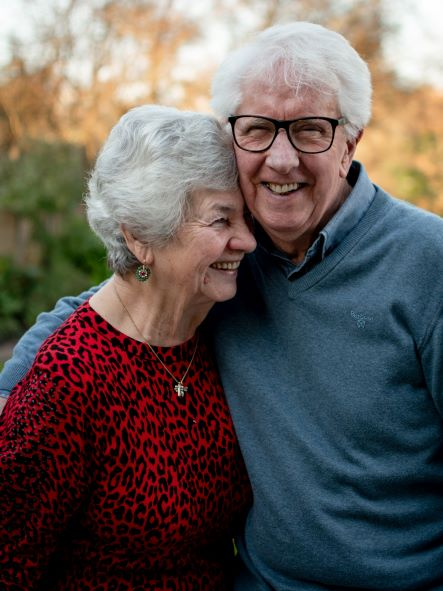
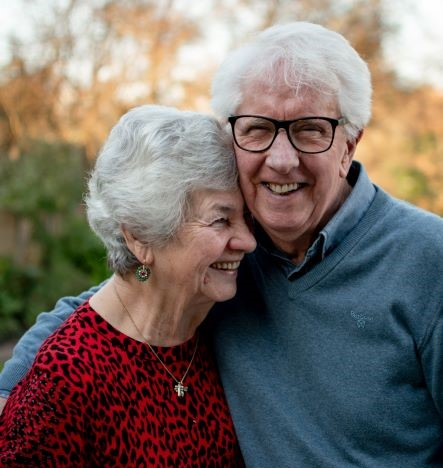
Corrigiendo tamaños imagenes entradas

diff --git a/pages/servicios/neurodesarrollo.js b/pages/servicios/neurodesarrollo.js
@@ -15,7 +15,7 @@ const NeuroDesarrollo = () => {
                 <section className='principal'>
                     <img src="/neurodesarrollo.jpg" alt="niños en la escuela" />
                     <p>La intervención se enfoca en apoyar al niño que presenta limitación en sus habilidades motoras, como capacidad reducida para moverse, dificultad para hacer cambios de postura, marcha, correr, saltar, dependencia en las actividades de la vida diaria, dificultad para participar en actividades escolares, etc. Esta basada en el análisis detallado de las actividades funcionales, las limitaciones, capacidades y necesidades, utilizando el análisis del movimiento típico para identificar los componentes atípicos.</p>
-                    <h2>Beneficios de la intervención de terapia ocupacional desde el enfoque de neurodesarrollo </h2>
+                    <h2 style={{marginTop: '2rem'}}>Beneficios de la intervención de terapia ocupacional desde el enfoque de neurodesarrollo </h2>
                     <p>
                     -Reducir el impacto de las deficiencias, aumentar el nivel de participación y autonomía.<br/><br/>
                     -Enfatizar en actividades funcionales impactando directamente en la higiene, vestido, alimentación, juego y traslado, ya que es importante que el niño lo refuerce diariamente.<br/><br/>

diff --git a/pages/servicios/terapia-en-la-escuela.js b/pages/servicios/terapia-en-la-escuela.js
@@ -12,8 +12,8 @@ const TerapiaEnLaEscuela = () => {
                     <i className='bx bxs-school' ></i>
                     <h1>Terapia Ocupacional en la escuela</h1>
                 </section>
-                <section className='principal'>
-                    <img src="/escuela.jpg" alt="niños en la escuela" />
+                <section className='principal imagenEscuela'>
+                    <img src="/escuela.webp" alt="niños en la escuela" />
                     <p>El rol ocupacional del niño centra sus actividades en la escuela, es por esto que un terapeuta ocupacional en dicho entorno es un profesional que puede apoyar las adaptaciones razonables del currículo que el profesor del aula realiza a través del PIAR, para aquellos niños con necesidades educativas especiales que requieran apoyo en su movilidad, adaptaciones al entorno o a los materiales de trabajo; de modo que el niño alcance su máximo nivel de participación, inclusión y rendimiento en las actividades del aula. </p>
                     <h2>Tareas del Terapeuta ocupacional en la escuela</h2>
                     <p>

diff --git a/pages/servicios/neurorehabilitacion.js b/pages/servicios/neurorehabilitacion.js
@@ -12,7 +12,7 @@ const Neurorehabilitacion = () => {
                     <i className='bx bxs-brain'></i>
                     <h1>Terapia Ocupacional en la Neurorehabilitación</h1>
                 </section>
-                <section className='principal'>
+                <section className='principal imagenNeurorehabilitacion'>
                     <img src="/neurorehabilitacion.jpg" alt="Personas adultas sonriendo" />
                     <p>La disfunción física es una condición resultado de una serie de consecuencias que se producen por diferentes traumas y/o enfermedades como enfermedad cerebro vascular, síndrome de sobre uso, trauma raquimedular, o en cualquier parte del cuerpo, Parkinson, amputación, entre otros. Todas estas influyen en la persona produciendo disfunción física; viendo  disminuidas sus capacidades físicas para llevar a cabo las diferentes actividades, ocupaciones y rutinas de su vida. </p>
                     <h2>Beneficios Terapia Ocupacional en neuro- rehabilitacion</h2>

diff --git a/styles/globals.css b/styles/globals.css
@@ -415,6 +415,7 @@ footer img {
 .principal p {
   white-space: pre-line;
   line-height: 1.3;
+  text-align: justify;
 }
 
 .principal img {
@@ -426,16 +427,25 @@ footer img {
   margin-left: 0;
 }
 
+.imagenEscuela img {
+  max-width: min(370px, 100%);
+}
+
+.imagenNeurorehabilitacion img {
+  max-width: min(160px, 100%);
+}
+
 @media (max-width: 608px) {
     .principal {
       text-align: center;
     }
 
     .principal p {
-      text-align: left;
+      text-align: justify;
     }
 
     .principal img {
+      max-width: 100%;
       float: none;
     }
 }
